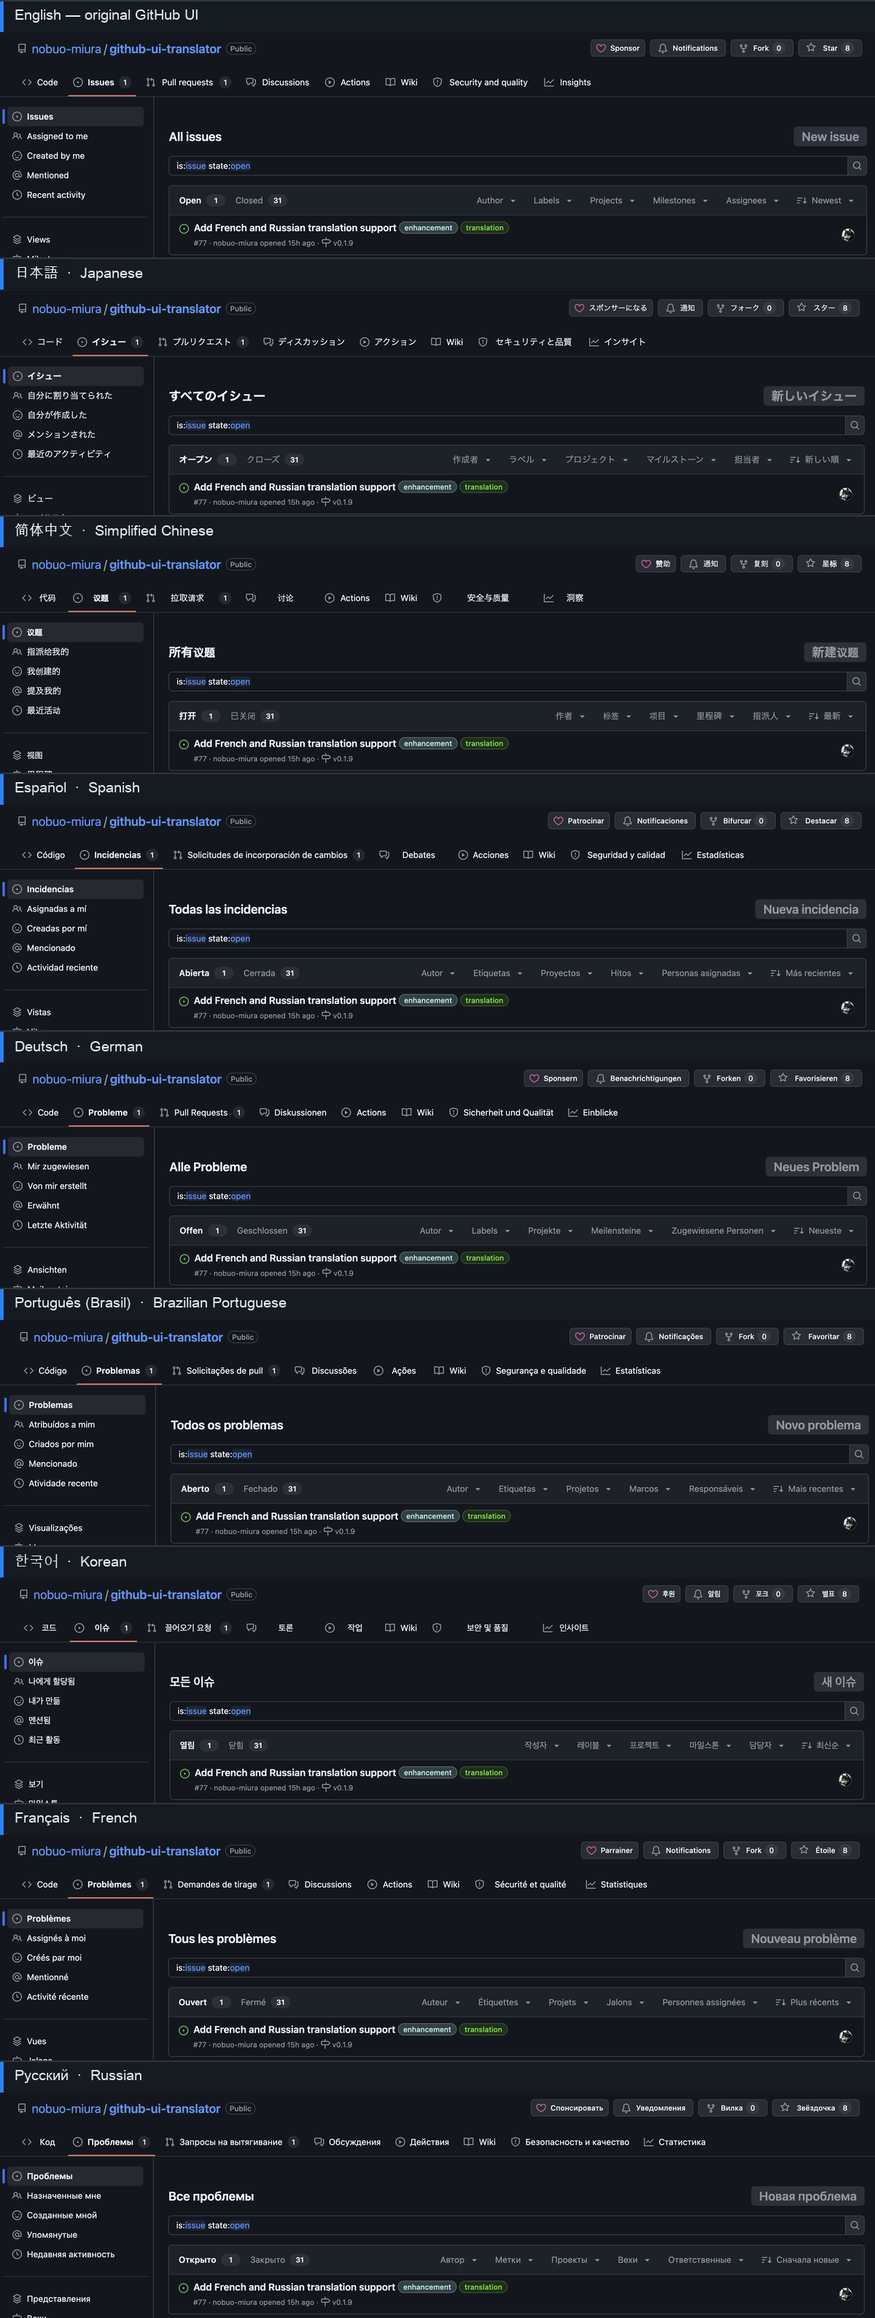
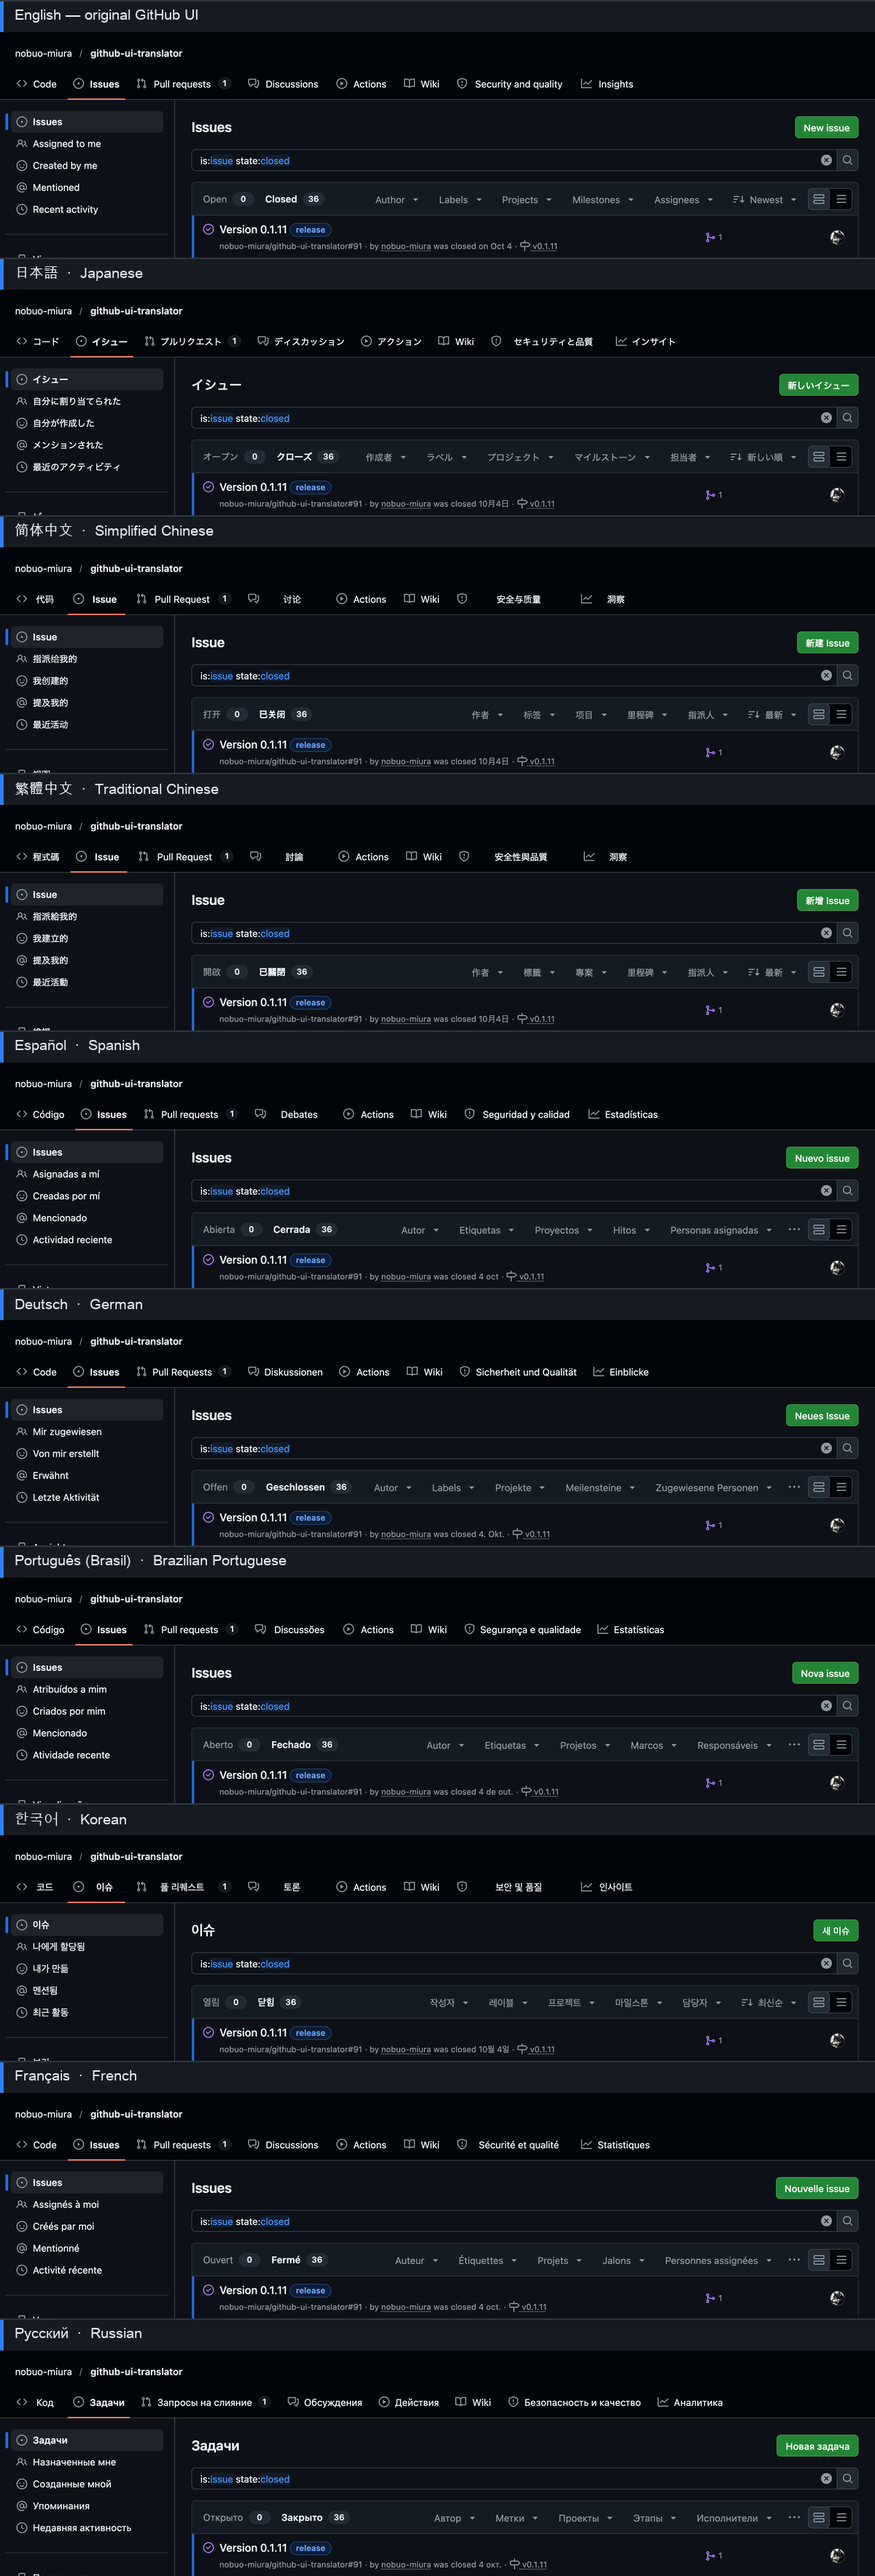
docs: refresh README screenshots for all 9 languages
- Show each README's own language in the hero screenshot
- Replace the language overview image with all 9 languages
- Remove the unused Japanese-only screenshot

diff --git a/README.ru.md b/README.ru.md
@@ -12,14 +12,14 @@
 GitHub UI Translator — расширение для Chrome, Edge и Firefox, которое с помощью локальных словарей переводит англоязычный интерфейс GitHub на японский, упрощённый китайский, традиционный китайский, испанский, немецкий, бразильский португальский, корейский, французский или русский язык.
 Расширение не использует внешние API перевода или облачные сервисы: весь перевод выполняется локально в браузере.
 
-![Результат перевода на японский язык](docs/images/jp.jpeg)
+![Результат перевода на русский язык](docs/images/screenshot-ru.png)
 
 <details>
-<summary>Снимки экрана на 8 языках</summary>
+<summary>Снимки экрана на 9 языках</summary>
 
 В первой строке показан исходный английский интерфейс GitHub, а в следующих строках — результат перевода на каждый язык.
 
-![Результаты перевода на 8 языков](docs/images/languages.png)
+![Результаты перевода на 9 языков](docs/images/languages.png)
 
 </details>
 

diff --git a/README.de.md b/README.de.md
@@ -12,14 +12,14 @@
 GitHub UI Translator ist eine Browsererweiterung für Chrome, Edge und Firefox. Sie übersetzt die englische GitHub-Oberfläche mithilfe lokaler Wörterbücher auf Japanisch, vereinfachtes Chinesisch, traditionelles Chinesisch, Spanisch, Deutsch, brasilianisches Portugiesisch, Koreanisch, Französisch oder Russisch.
 Die Erweiterung benötigt weder externe Übersetzungs-APIs noch Cloud-Dienste; sämtliche Übersetzungen erfolgen lokal im Browser.
 
-![Ergebnis der japanischen Übersetzung](docs/images/jp.jpeg)
+![Ergebnis der deutschen Übersetzung](docs/images/screenshot-de.png)
 
 <details>
-<summary>Screenshots in 8 Sprachen</summary>
+<summary>Screenshots in 9 Sprachen</summary>
 
 Die erste Zeile zeigt die englische Originaloberfläche von GitHub. Darunter ist jeweils das Übersetzungsergebnis für eine Sprache zu sehen.
 
-![Übersetzungsergebnisse in 8 Sprachen](docs/images/languages.png)
+![Übersetzungsergebnisse in 9 Sprachen](docs/images/languages.png)
 
 </details>
 

diff --git a/README.fr.md b/README.fr.md
@@ -12,14 +12,14 @@
 GitHub UI Translator est une extension pour Chrome, Edge et Firefox qui traduit l’interface anglaise de GitHub en japonais, chinois simplifié, chinois traditionnel, espagnol, allemand, portugais brésilien, coréen, français ou russe à l’aide de dictionnaires locaux.
 Elle ne dépend d’aucune API de traduction ni d’aucun service cloud externe : toute la traduction s’effectue localement dans le navigateur.
 
-![Résultat de la traduction en japonais](docs/images/jp.jpeg)
+![Résultat de la traduction en français](docs/images/screenshot-fr.png)
 
 <details>
-<summary>Captures d’écran en 8 langues</summary>
+<summary>Captures d’écran en 9 langues</summary>
 
 La première ligne montre l’interface anglaise d’origine de GitHub ; chaque ligne suivante présente le résultat dans une langue.
 
-![Résultats de traduction en 8 langues](docs/images/languages.png)
+![Résultats de traduction en 9 langues](docs/images/languages.png)
 
 </details>
 

diff --git a/README.pt-BR.md b/README.pt-BR.md
@@ -12,14 +12,14 @@
 GitHub UI Translator é uma extensão para Chrome, Edge e Firefox que traduz a interface em inglês do GitHub para japonês, chinês simplificado, chinês tradicional, espanhol, alemão, português do Brasil, coreano, francês ou russo usando dicionários locais.
 Ela não depende de APIs externas de tradução nem de serviços em nuvem: toda a tradução é feita localmente no navegador.
 
-![Resultado da tradução para japonês](docs/images/jp.jpeg)
+![Resultado da tradução para português](docs/images/screenshot-pt-BR.png)
 
 <details>
-<summary>Capturas de tela em 8 idiomas</summary>
+<summary>Capturas de tela em 9 idiomas</summary>
 
 A primeira linha mostra a interface original do GitHub em inglês; as linhas seguintes mostram o resultado da tradução em cada idioma.
 
-![Resultados da tradução em 8 idiomas](docs/images/languages.png)
+![Resultados da tradução em 9 idiomas](docs/images/languages.png)
 
 </details>
 

diff --git a/README.es.md b/README.es.md
@@ -12,14 +12,14 @@
 GitHub UI Translator es una extensión para Chrome, Edge y Firefox que traduce la interfaz en inglés de GitHub al japonés, chino simplificado, chino tradicional, español, alemán, portugués de Brasil, coreano, francés o ruso mediante diccionarios locales.
 No depende de API de traducción ni de servicios en la nube externos: toda la traducción se realiza localmente en el navegador.
 
-![Resultado de la traducción al japonés](docs/images/jp.jpeg)
+![Resultado de la traducción al español](docs/images/screenshot-es.png)
 
 <details>
-<summary>Capturas de 8 idiomas</summary>
+<summary>Capturas de 9 idiomas</summary>
 
 La primera fila muestra la interfaz original de GitHub en inglés; las filas siguientes muestran el resultado en cada idioma.
 
-![Resultados de traducción en 8 idiomas](docs/images/languages.png)
+![Resultados de traducción en 9 idiomas](docs/images/languages.png)
 
 </details>
 

diff --git a/README.ko.md b/README.ko.md
@@ -12,14 +12,14 @@
 GitHub UI Translator는 로컬 사전을 사용해 GitHub의 영어 UI를 일본어, 중국어 간체, 중국어 번체, 스페인어, 독일어, 브라질 포르투갈어, 한국어, 프랑스어 또는 러시아어로 번역하는 Chrome, Edge 및 Firefox용 브라우저 확장 프로그램입니다.
 외부 번역 API나 클라우드 서비스에 의존하지 않으며 모든 번역은 브라우저 안에서 로컬로 처리됩니다.
 
-![일본어 번역 결과](docs/images/jp.jpeg)
+![한국어 번역 결과](docs/images/screenshot-ko.png)
 
 <details>
-<summary>8개 언어의 스크린샷</summary>
+<summary>9개 언어의 스크린샷</summary>
 
 첫 번째 행은 GitHub의 원본 영어 UI이며, 그 아래 각 행은 언어별 번역 결과입니다.
 
-![8개 언어의 번역 결과](docs/images/languages.png)
+![9개 언어의 번역 결과](docs/images/languages.png)
 
 </details>
 

diff --git a/README.ja.md b/README.ja.md
@@ -12,14 +12,14 @@
 GitHubの英語UIを、ローカル辞書を使って日本語・簡体字中国語・繁体字中国語・スペイン語・ドイツ語・ブラジルポルトガル語・韓国語・フランス語・ロシア語に翻訳するブラウザ拡張機能です（Chrome / Edge / Firefox対応）。
 外部の翻訳APIやクラウドサービスには一切依存せず、すべてブラウザ内で完結します。
 
-![日本語翻訳結果](docs/images/jp.jpeg)
+![日本語翻訳結果](docs/images/screenshot-ja.png)
 
 <details>
-<summary>スクリーンショット（8言語）</summary>
+<summary>スクリーンショット（9言語）</summary>
 
 先頭は翻訳前のGitHubの英語UI、その下が各言語の翻訳結果です。
 
-![8言語の翻訳結果](docs/images/languages.png)
+![9言語の翻訳結果](docs/images/languages.png)
 
 </details>
 

diff --git a/README.md b/README.md
@@ -12,14 +12,14 @@
 GitHub UI Translator is a browser extension for Chrome, Edge, and Firefox that translates GitHub's English UI into Japanese, Simplified Chinese, Traditional Chinese, Spanish, German, Brazilian Portuguese, Korean, French, or Russian using a local dictionary.
 It does not rely on external translation APIs or cloud services; all translation runs locally in the browser.
 
-![Translation result for Japanese](docs/images/jp.jpeg)
+![Translation result for Japanese](docs/images/screenshot-ja.png)
 
 <details>
-<summary>Screenshots (8 languages)</summary>
+<summary>Screenshots (9 languages)</summary>
 
 The first row is GitHub's original English UI; each row below shows the translation for one language.
 
-![Translation results for 8 languages](docs/images/languages.png)
+![Translation results for 9 languages](docs/images/languages.png)
 
 </details>
 

diff --git a/README.zh-CN.md b/README.zh-CN.md
@@ -12,14 +12,14 @@
 GitHub UI Translator 是一款适用于 Chrome、Edge 和 Firefox 的浏览器扩展。它使用本地词典，将 GitHub 的英文界面翻译成日语、简体中文、繁体中文、西班牙语、德语、巴西葡萄牙语、韩语、法语或俄语。
 本扩展不依赖外部翻译 API 或云服务；所有翻译均在浏览器本地完成。
 
-![日语翻译效果](docs/images/jp.jpeg)
+![简体中文翻译效果](docs/images/screenshot-zh-CN.png)
 
 <details>
-<summary>8 种语言的截图</summary>
+<summary>9 种语言的截图</summary>
 
 第一行是 GitHub 原始的英文界面，下面每一行分别展示一种语言的翻译效果。
 
-![8 种语言的翻译效果](docs/images/languages.png)
+![9 种语言的翻译效果](docs/images/languages.png)
 
 </details>
 

diff --git a/README.zh-TW.md b/README.zh-TW.md
@@ -12,14 +12,14 @@
 GitHub UI Translator 是一款適用於 Chrome、Edge 和 Firefox 的瀏覽器擴充功能。它使用本機字典，將 GitHub 的英文介面翻譯成日語、簡體中文、繁體中文、西班牙語、德語、巴西葡萄牙語、韓語、法語或俄語。
 本擴充功能不依賴外部翻譯 API 或雲端服務；所有翻譯均在瀏覽器內完成。
 
-![日語翻譯效果](docs/images/jp.jpeg)
+![繁體中文翻譯效果](docs/images/screenshot-zh-TW.png)
 
 <details>
-<summary>8 種語言的截圖</summary>
+<summary>9 種語言的截圖</summary>
 
 最上方是 GitHub 原始的英文介面，下方依序展示各語言的翻譯效果。
 
-![8 種語言的翻譯效果](docs/images/languages.png)
+![9 種語言的翻譯效果](docs/images/languages.png)
 
 </details>
 
